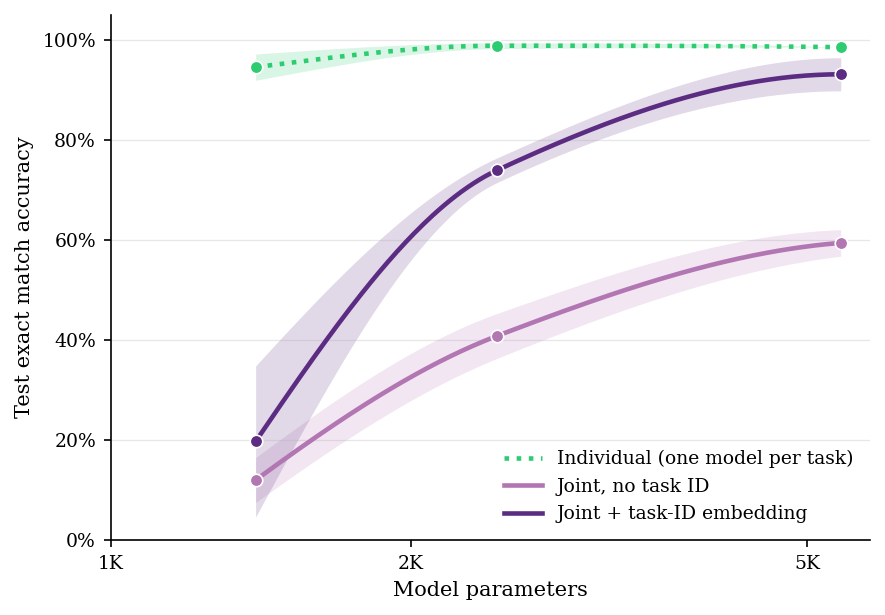
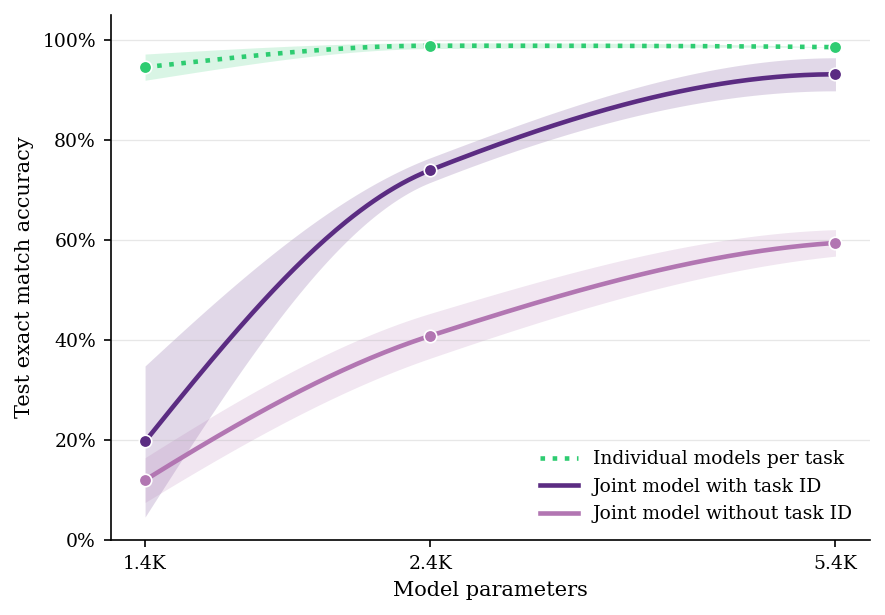
Capacity-cliff plot: data-aligned x-ticks, renamed legend
X-ticks now sit at the actual data points (1.4K/2.4K/5.4K) instead of
round-but-arbitrary 1K/2K/5K. Legend relabelled: 'Individual models per
task', 'Joint model with task ID', 'Joint model without task ID' (also
reordered to match, with-ID before without-ID).

diff --git a/configs/experiments/arc1d_v2_multitask/plot_capacity_cliff.py b/configs/experiments/arc1d_v2_multitask/plot_capacity_cliff.py
@@ -59,9 +59,9 @@ COLORS = {
 }
 LINESTYLES = {"individual": ":", "notd": "-", "td": "-"}
 LABELS = {
-    "individual": "Individual (one model per task)",
-    "notd": "Joint, no task ID",
-    "td": "Joint + task-ID embedding",
+    "individual": "Individual models per task",
+    "td": "Joint model with task ID",
+    "notd": "Joint model without task ID",
 }
 CSV_FIELDS = ["condition", "dim", "params", "seed", "test_exact_match"]
 
@@ -194,7 +194,7 @@ def plot(series: dict[str, dict[str, dict]], out_path: Path) -> None:
 
     dims_sorted = sorted(DIM_PARAMS, key=lambda d: DIM_PARAMS[d])
 
-    for cond in ("individual", "notd", "td"):
+    for cond in ("individual", "td", "notd"):
         dims_present = [d for d in dims_sorted if d in series[cond]]
         if len(dims_present) < 2:
             continue
@@ -230,9 +230,9 @@ def plot(series: dict[str, dict[str, dict]], out_path: Path) -> None:
 
     ax.set_xscale("log")
     ax.xaxis.set_minor_locator(plt.NullLocator())
-    tick_values = [1000, 2000, 5000]
+    tick_values = [DIM_PARAMS[d] for d in dims_sorted]
     ax.set_xticks(tick_values)
-    ax.set_xticklabels(["1K", "2K", "5K"])
+    ax.set_xticklabels([f"{v / 1000:.1f}K" for v in tick_values])
     ax.set_xlabel("Model parameters")
     ax.set_ylabel("Test exact match accuracy")
     ax.set_ylim(0, 1.05)
